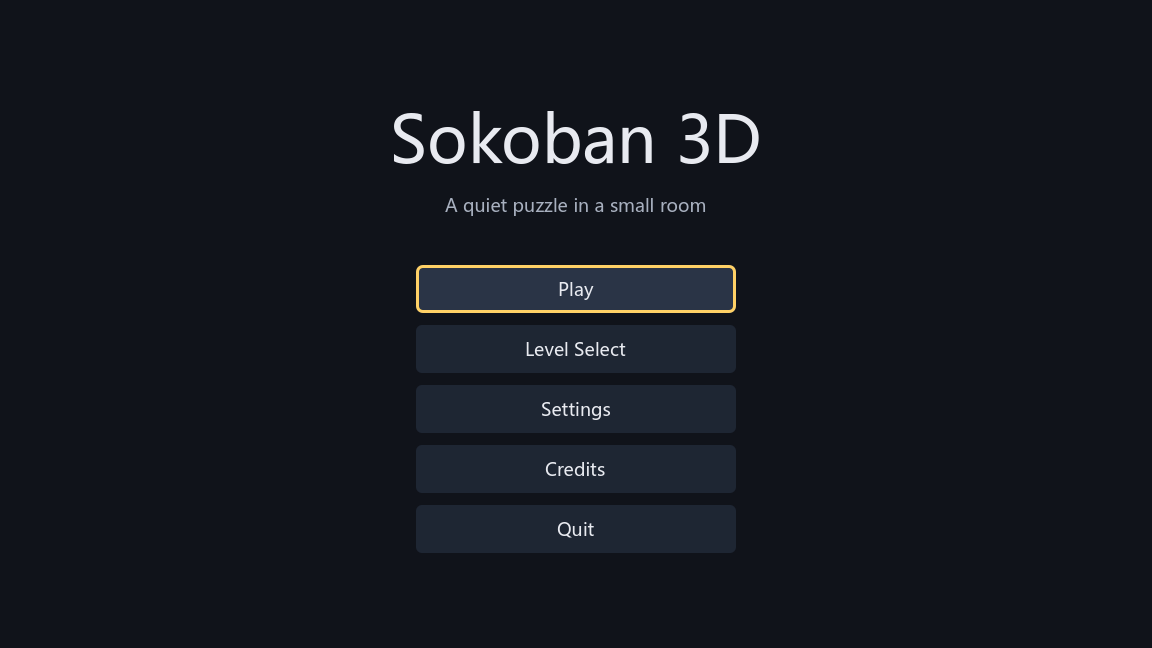
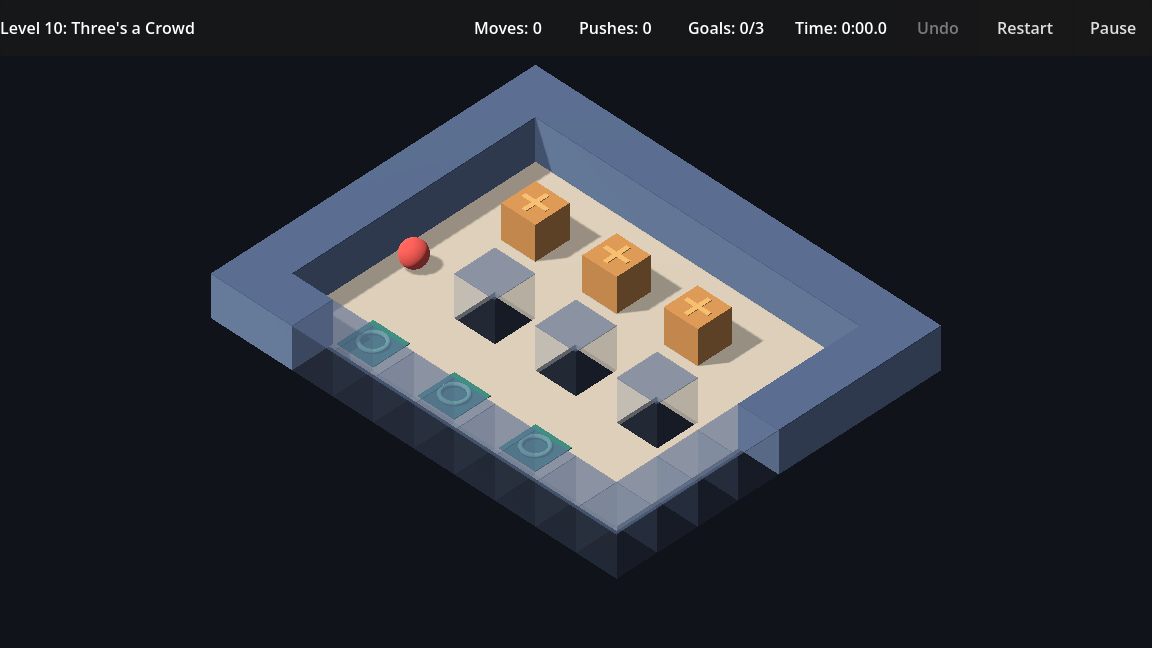
docs: show the shipped screens in the README

diff --git a/README.md b/README.md
@@ -14,6 +14,12 @@ move at a time, with undo, unlimited retries and no timer against you.
 
 Version 0.1.0.
 
+![Main menu](docs/screenshots/menu.png)
+
+| Level 10, three crates | Settings, Chinese |
+|---|---|
+| ![Level 10](docs/screenshots/level-10.png) | ![Settings in Chinese](docs/screenshots/settings-zh.png) |
+
 ## Controls
 
 | Action | Keyboard | Gamepad |
